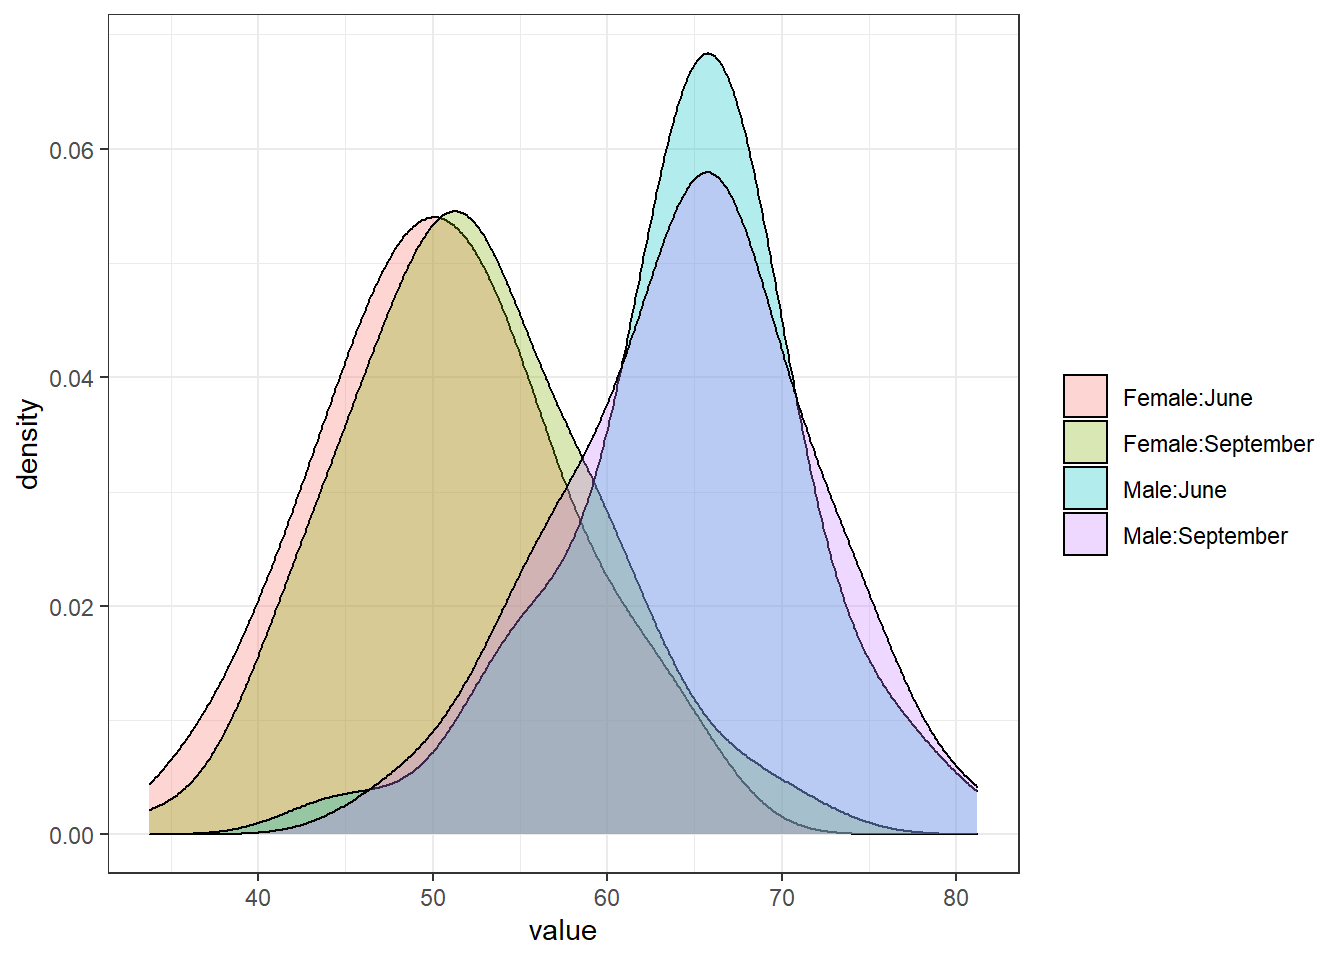
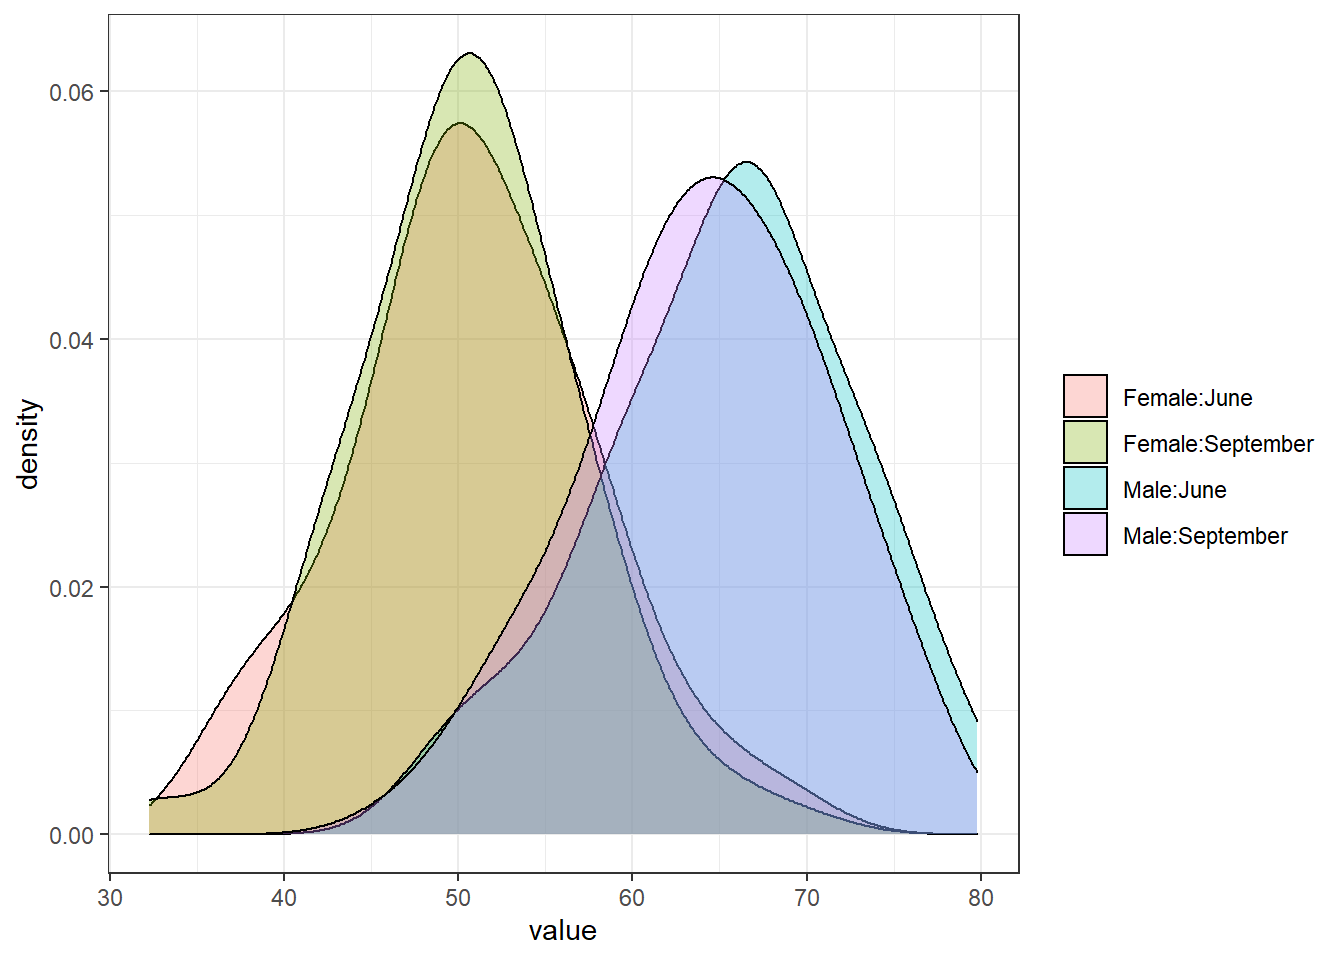
v1.2

diff --git a/content/english/post/2022-12-04-lords2/index.en.md b/content/english/post/2022-12-04-lords2/index.en.md
@@ -38,5 +38,164 @@ The data may look like this:
 <p class="caption">Figure 2: Weight distribution by group and period</p>
 </div>
 
-The average and variance for each group are essentially the same in both periods.
+The average and variance for each group are essentially the same in each periods. However, individual weights did not remain constant...
+
+
+### The problem
+
+
+Through the years, several authors have discussed the original problem. Here we have several examples:
+
+- **Lord (1967):** Granted the usual linearity assumptions of the analysis of covariance, **the conclusions of each statistician are visibly correct**. The usual research study of this type is attempting to answer a question that **simply cannot be answered in any rigorous way on the basis of available data**.
+
+ - **Bock (1975):**Both statisticians in the scenario are correct once the question being asked is clarified. The first statistician asks: “Is there a difference in the average gain in weight of the population?” and correctly answered: “No!” The second statistician asks: “Is a man expected to show a greater weight gain than a woman, given that they are initially of the same weight?” and answers it correctly: “Yes!”
+
+- **Cox and McCullagh (1982)**: The first statistician was right when asking about group differences, while the second was right when asking about the effect on an individual.
+
+- **Holland and Rubin (1983)**: Both statisticians are correct: their statements simply describe the situation. But no causal conclusions can be reached. 
+
+- **Pearl (2010)**: None of these early responses is satisfactory because they fail to address what misaligns with intuition, namely that the outcomes seemingly violate the sure-thing principle. This principle states that if a causal relation holds for all subpopulations, then it should hold for the whole population. **The two statisticians are asking two different questions, with the first one asking about the total effect, and the second asking about the direct effect**. 
+
+The discussions deals with the necessity of adjusting by confounders, and wether in this case initial weight is a confounder, a mediator or what. 
+
+
+### The Analysis of the original problem
+
+**First Statistician:**
+
+The first statistician uses the following model, with weigth change as response variable and sex as the only explanatory variable:
+
+
+```r
+(summary(lm(Change ~ sex,bd))) 
+```
+She obtains that there are no differences in weight change between sex groups.
+
+**Second statistician:**
+
+The second statistician, fits a similar model using the final weight as the response variable and corrects the analysis by the initial weight since it is a confounder.
+
+
+```r
+(summary(lm(September ~ June + sex ,bd))) 
+```
+
+She obtains that there are differences between boys and girls.
+
+
+## My opinion
+
+The previous approaches discuss the necessity of adjusting by a covariate if it is a confounder and to be very careful if it is a mediator. In the present example, since dinning halls and diets and sexes are confused with each other, we can agree that the study design is a complete disaster, and that no solid conclusions could be obtained.
+
+See that according to the second statistician the diet effect can be described as 
+ - Start with 27Kg 
+ - Add 46% of the weight in June 
+ - Add 7Kg for boys  
+
+What kind of diet could produce this effect? It has no sense...
+
+However, there is a different point of view that can add some clarity to understand why both statisticians reach different conclusions.
+
+
+### Measurement error
+
+Observing the results obteined by the second statistician we can realize that the effect produced by the diet (and given by the model) is quite implausible. The September weight is given by the model's formula and corresponds to an intercept plus a proportion of the weight in June and some amount depending on the sex and finally a random perturbation.   
+
+This abnormal consequence of the diet could be explained by a wrong model proposal.
+
+A simpler model could explain the results: What if we consider that the explanatory variable has been measured with error?
+
+In this case, the model can be fitted now using as Structural Equation Model as follows:
+
+
+```r
+library(lavaan)
+```
+
+```
+## This is lavaan 0.6-12
+## lavaan is FREE software! Please report any bugs.
+```
+
+```r
+bd$sex <- as.numeric(bd$sex)
+mod = "
+W0 =~ 1*June 
+W0 ~~ w*W0
+June ~~ v*June
+September ~ 1 + W0 + sex
+w == v * 3
+"
+summary(sem(mod, data=bd))
+```
+
+```
+## lavaan 0.6-12 ended normally after 24 iterations
+## 
+##   Estimator                                         ML
+##   Optimization method                           NLMINB
+##   Number of model parameters                         7
+##   Number of equality constraints                     1
+## 
+##   Number of observations                           200
+## 
+## Model Test User Model:
+##                                                       
+##   Test statistic                               145.060
+##   Degrees of freedom                                 1
+##   P-value (Chi-square)                           0.000
+## 
+## Parameter Estimates:
+## 
+##   Standard errors                             Standard
+##   Information                                 Expected
+##   Information saturated (h1) model          Structured
+## 
+## Latent Variables:
+##                    Estimate  Std.Err  z-value  P(>|z|)
+##   W0 =~                                               
+##     June              1.000                           
+## 
+## Regressions:
+##                    Estimate  Std.Err  z-value  P(>|z|)
+##   September ~                                         
+##     W0                0.604    0.053   11.347    0.000
+##     sex               7.065    0.809    8.732    0.000
+## 
+## Intercepts:
+##                    Estimate  Std.Err  z-value  P(>|z|)
+##    .September        46.795    1.320   35.452    0.000
+##    .June             58.141    0.716   81.158    0.000
+##     W0                0.000                           
+## 
+## Variances:
+##                    Estimate  Std.Err  z-value  P(>|z|)
+##     W0         (w)   76.982    7.698   10.000    0.000
+##    .June       (v)   25.661    2.566   10.000    0.000
+##    .September        25.713    3.570    7.203    0.000
+## 
+## Constraints:
+##                                                |Slack|
+##     w - (v*3)                                    0.000
+```
+
+Now, the adjusted analysis including the covariate gives a similar result as the unadjusted model. Both statisticians would have obtained the same conclusion if they had considered that initial weight could have been measured with error.
+
+
+
+### References
+
+Pearl, J. 2014. *Lord's Paradox Revisited -- (Oh Lord! Kumbaya!)*. [link](http://ftp.cs.ucla.edu/pub/stat_ser/r436.pdf)
+
+Senn, S. 2006. *Change from baseline and analysis of covariance revisited*. [link](http://onlinelibrary.wiley.com/doi/10.1002/sim.2682/pdf)
+
+Clark, M. 2016. *Lord’s Paradox*. [link](https://github.com/m-clark/lords-paradox)
+
+Lord, F. M. 1967. *A paradox in the interpretation of group comparisons*.Psychological Bulletin 68304–305.
+
+Holland, P. and Rubin, D. 1983. *On Lord’s paradox. InPrincipals of Modern Psycho-logical Measurement*. Lawrence Earlbaum, Hillsdale, NJ,3–25
+
+Bock, R. 1975. *Multivariate statistical methods in behavioral research*. McGraw-Hill, NY.
+
+Cox, D. and McCullagh, P. 1982. *A biometrics invited paper with discussion. someaspects of analysis of covariance*. Biometrics 38541–561.
 
